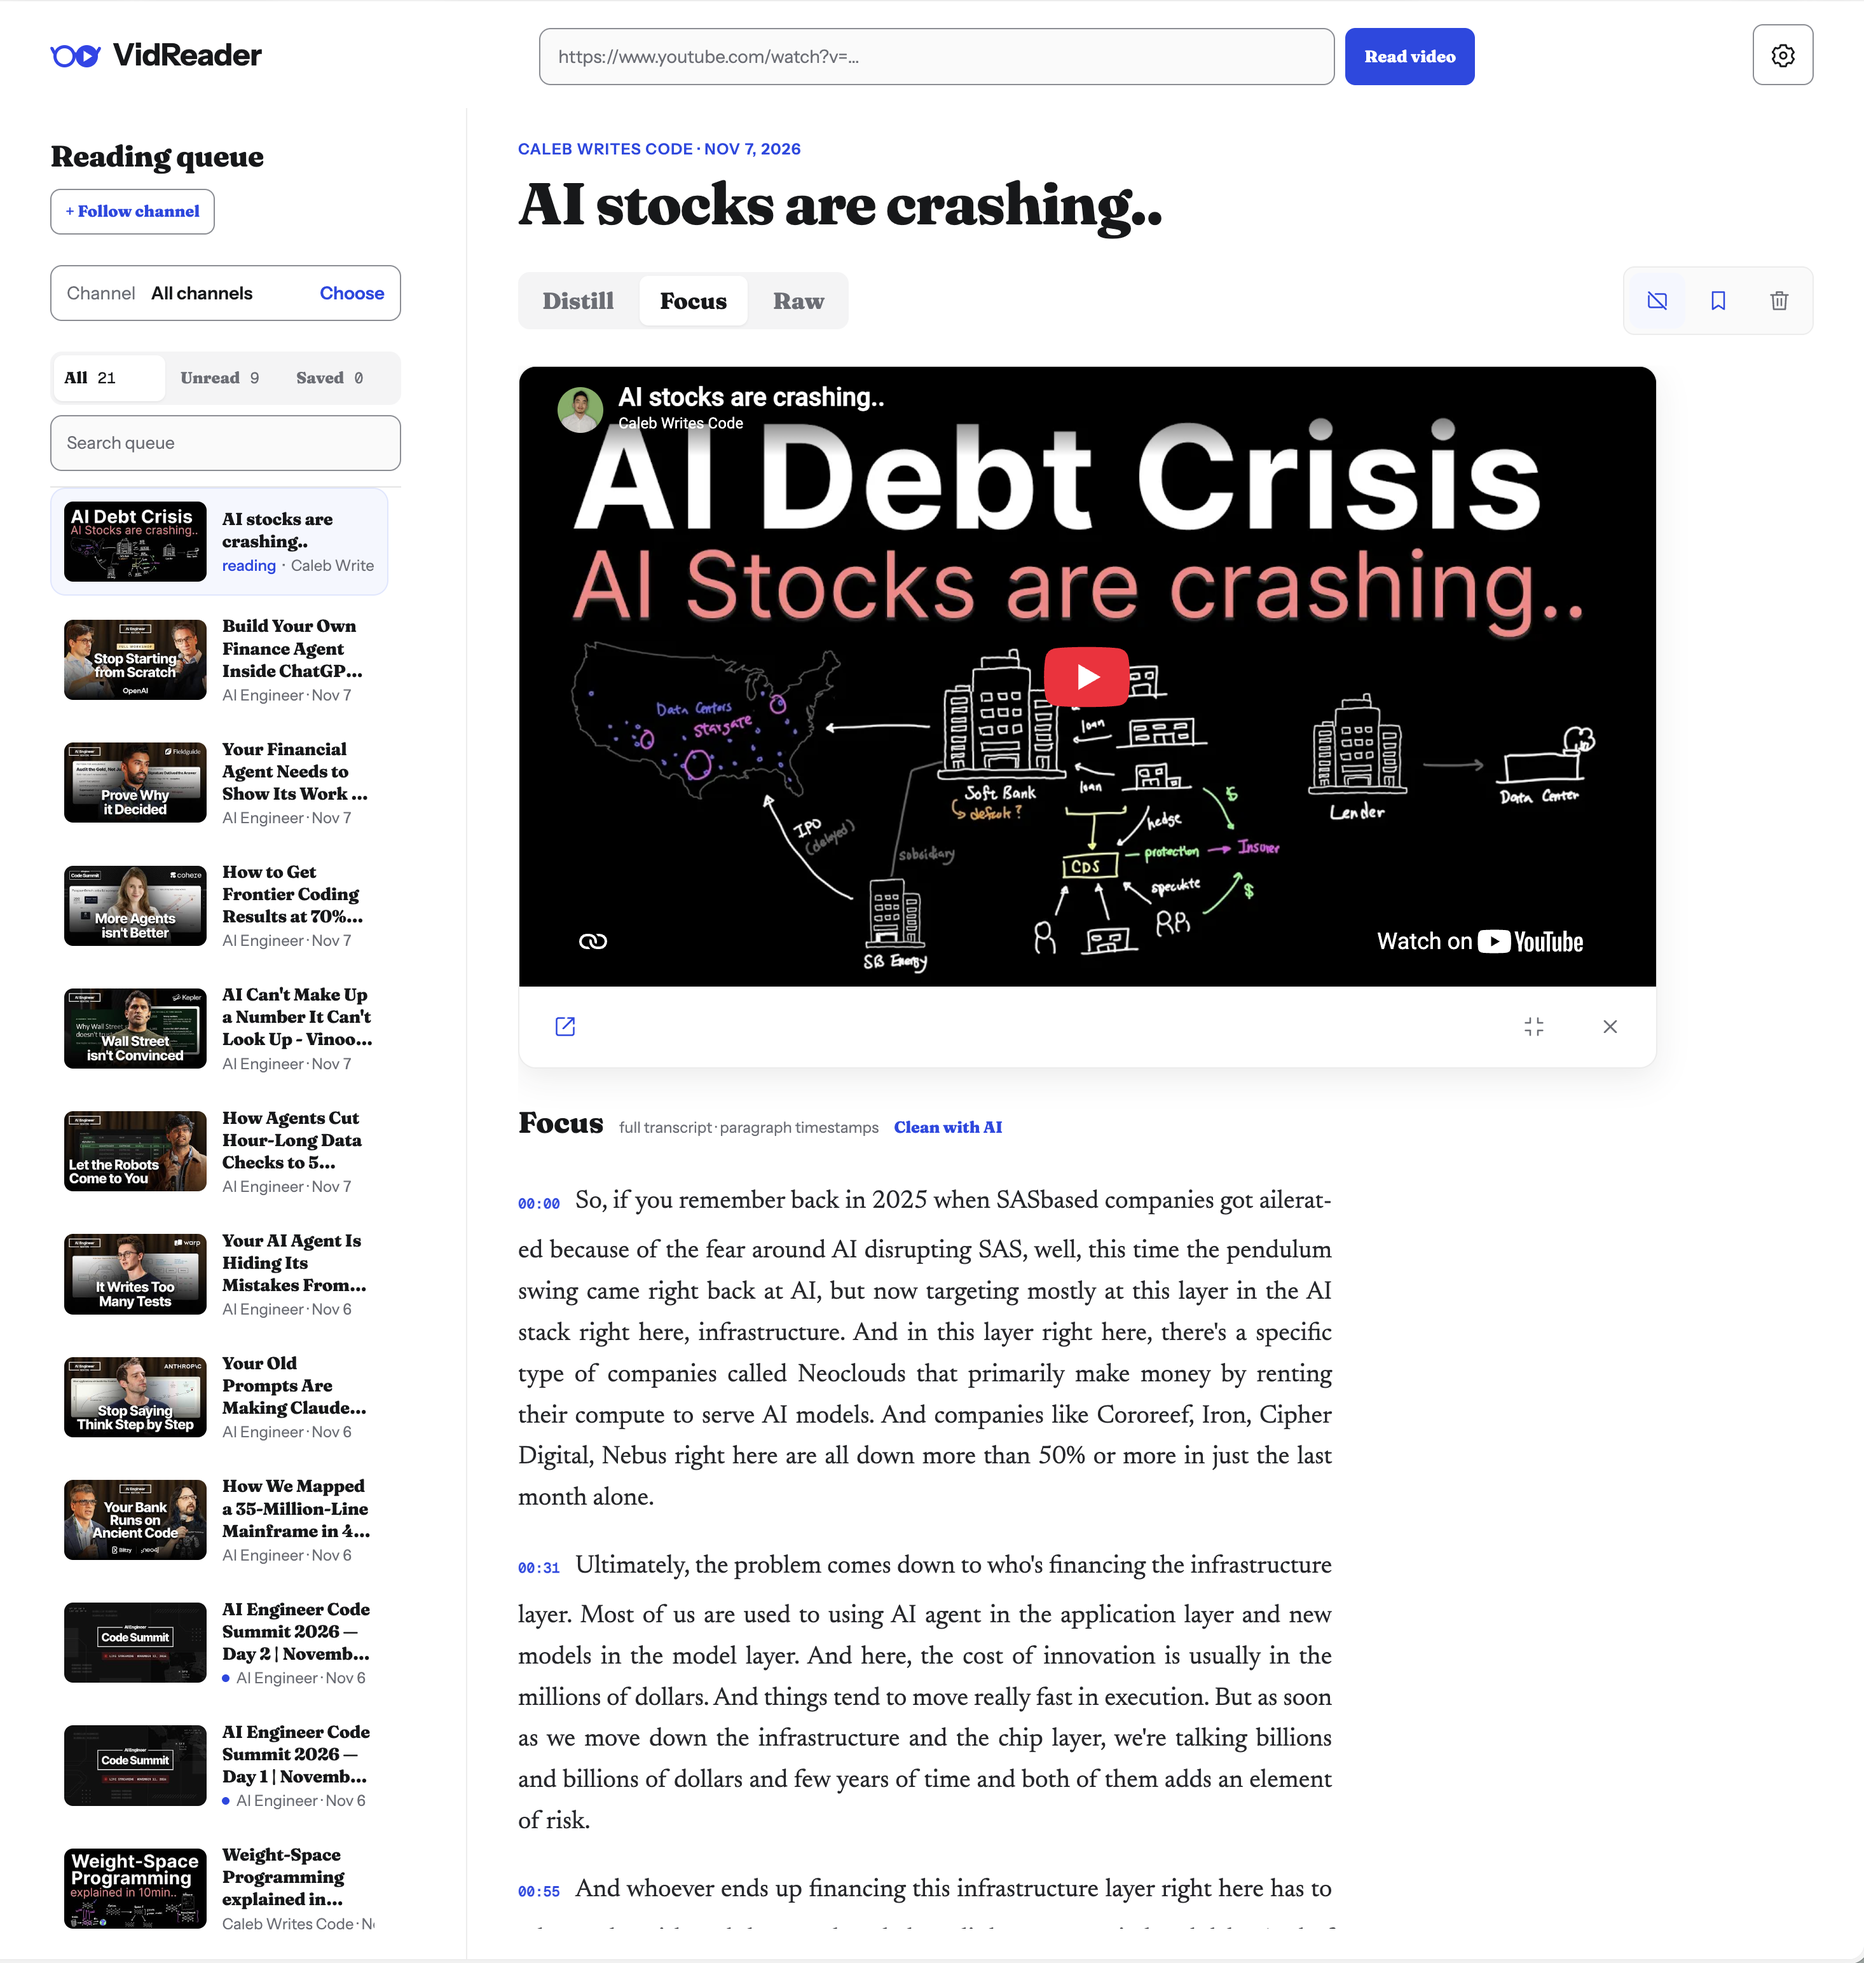
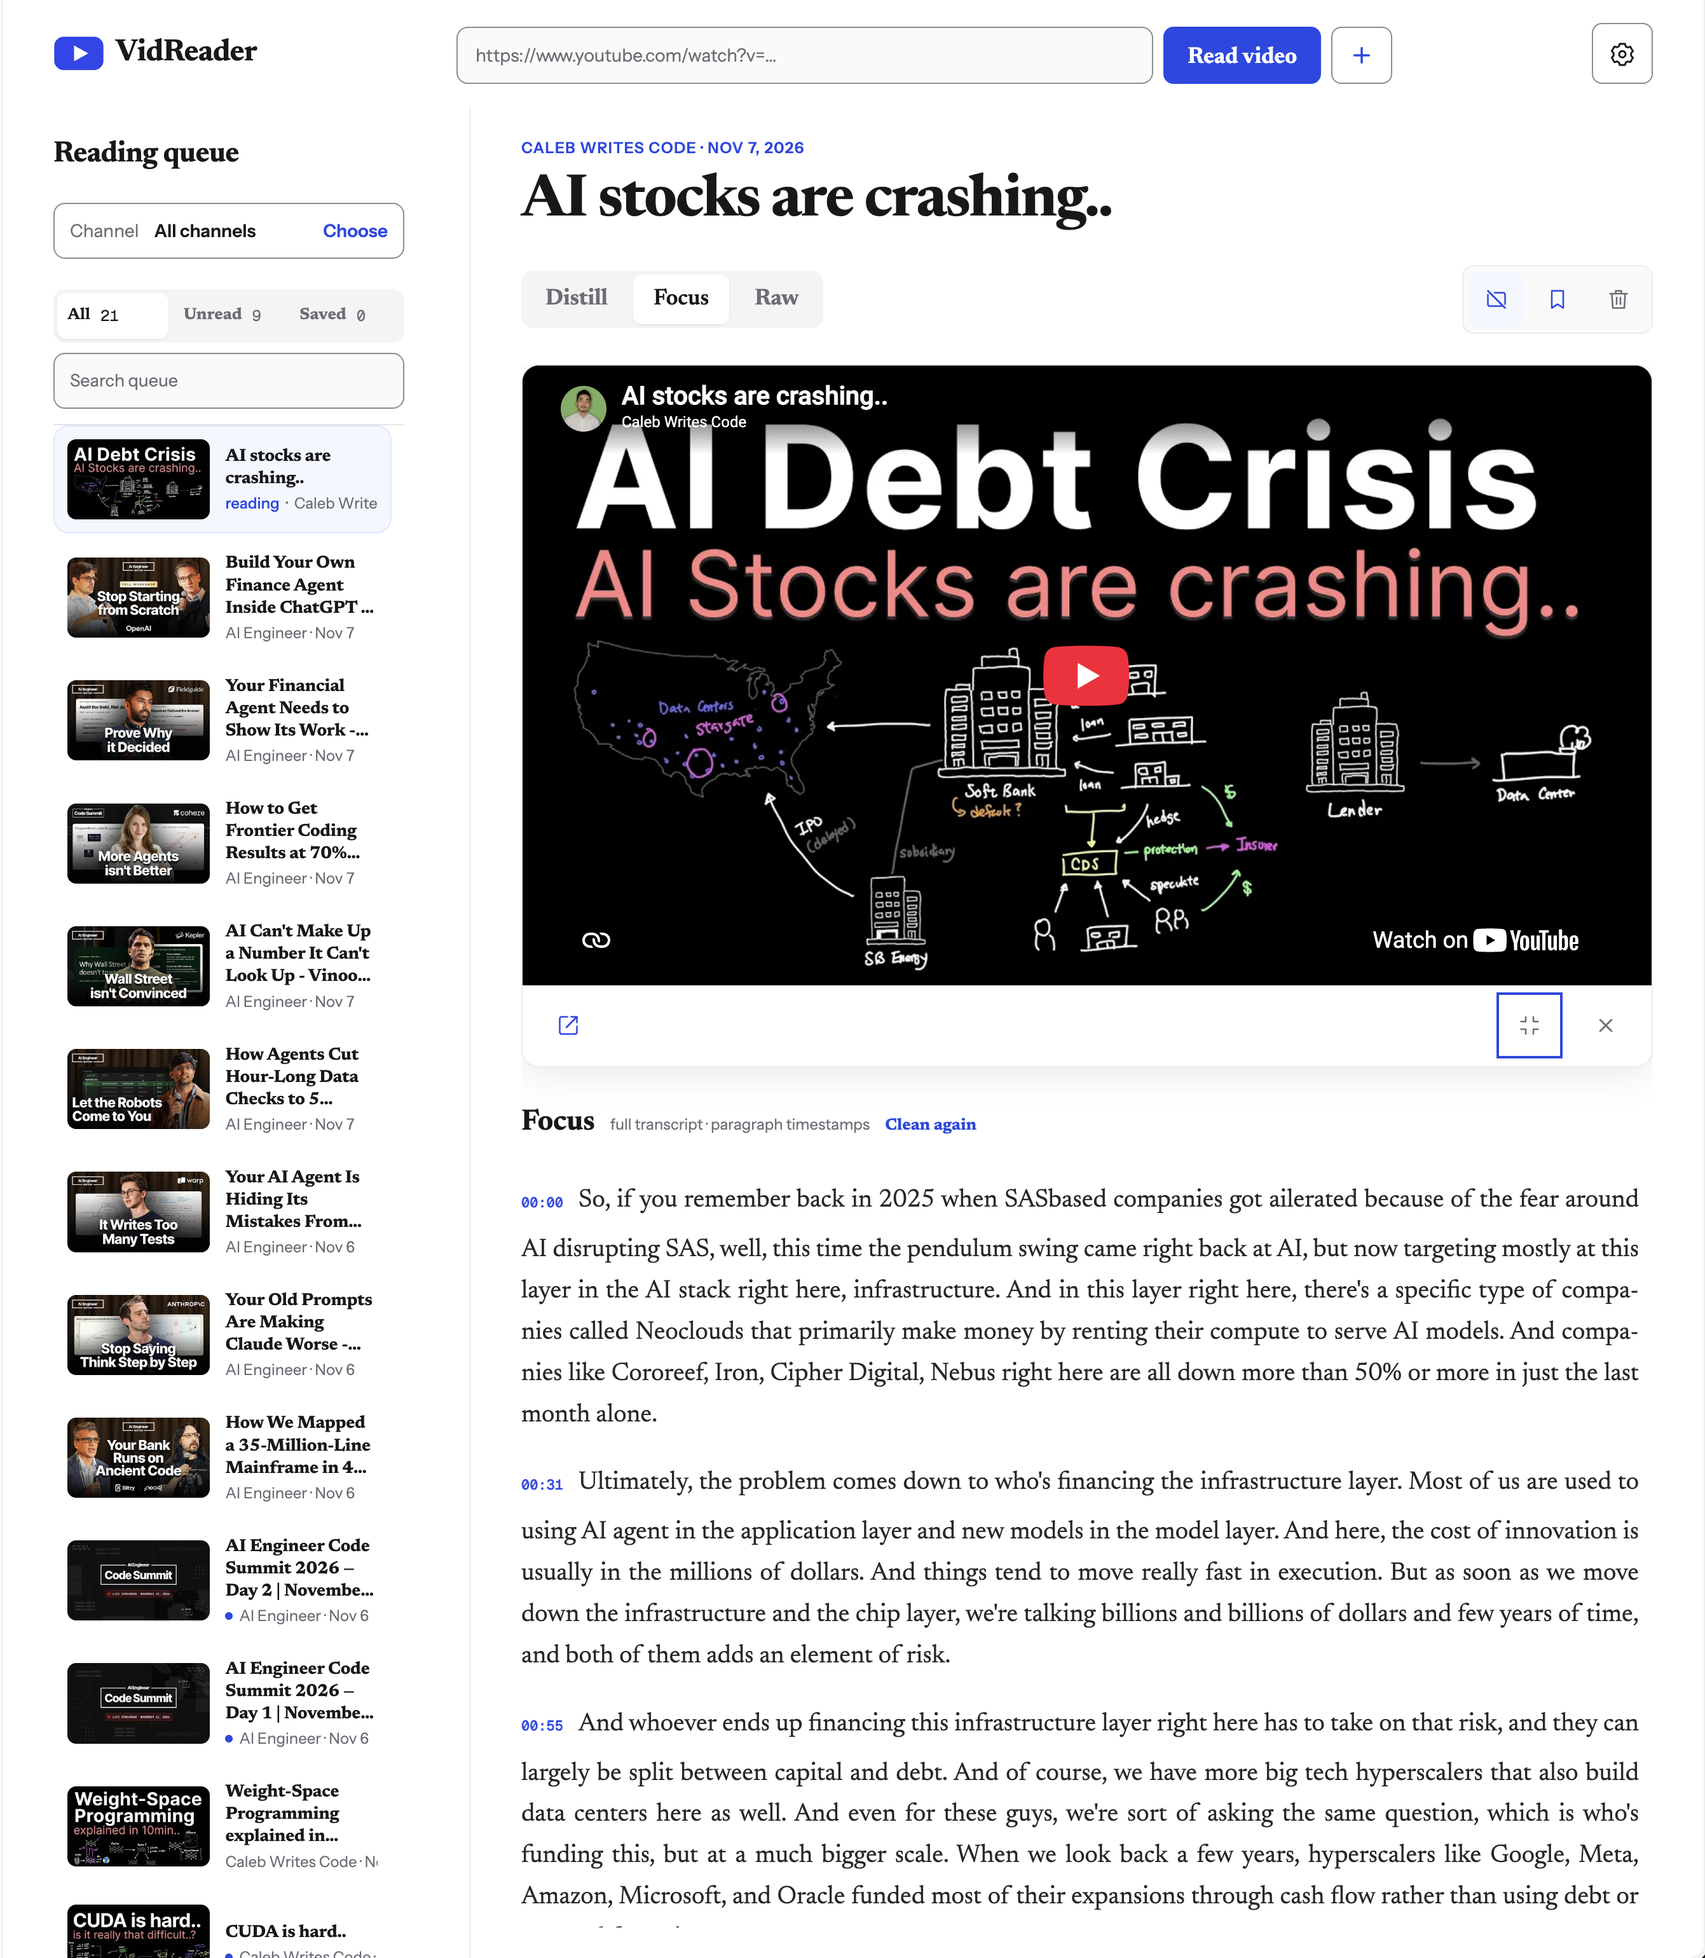
Polish reader branding, align full-width content, and move channel follow action

diff --git a/index.html b/index.html
@@ -4,22 +4,23 @@
     <meta charset="UTF-8" />
     <meta name="viewport" content="width=device-width, initial-scale=1, viewport-fit=cover" />
     <title>VidReader</title>
-    <link rel="icon" type="image/svg+xml" href="/favicon.svg?v=play-lens" />
+    <link rel="icon" type="image/svg+xml" href="/favicon.svg?v=blue-play" />
     <link rel="preconnect" href="https://fonts.googleapis.com" />
     <link rel="preconnect" href="https://fonts.gstatic.com" crossorigin />
-    <link href="https://fonts.googleapis.com/css2?family=Fraunces:opsz,wght@9..144,800&family=Geist+Mono:wght@400;500&family=Instrument+Sans:ital,wght@0,400..700;1,400..600&family=Newsreader:ital,opsz,wght@0,6..72,400..700;1,6..72,400..600&display=swap" rel="stylesheet" />
-    <link rel="stylesheet" href="./reader.css?v=reader-fraunces-20261107" />
+    <link href="https://fonts.googleapis.com/css2?family=Geist+Mono:wght@400;500&family=Instrument+Sans:ital,wght@0,400..700;1,400..600&family=Newsreader:ital,opsz,wght@0,6..72,400..700;1,6..72,400..600&display=swap" rel="stylesheet" />
+    <link rel="stylesheet" href="./reader.css?v=reader-follow-20261107" />
     <script src="./preferences-init.js"></script>
   </head>
   <body>
     <header class="masthead">
       <div class="mast-main">
-        <a class="wordmark" href="/" aria-label="VidReader home"><img class="wordmark-mark" src="/favicon.svg?v=play-lens" alt="" width="40" height="30" /><span>VidReader</span></a>
+        <a class="wordmark" href="/" aria-label="VidReader home"><img class="wordmark-mark" src="/favicon.svg?v=blue-play" alt="" width="40" height="30" /><span>VidReader</span></a>
         <form class="link-form" id="video-form">
           <label for="video-url">Video link</label>
           <div class="link-row">
             <input id="video-url" type="url" inputmode="url" autocomplete="url" aria-describedby="video-helper" aria-required="true" placeholder="https://www.youtube.com/watch?v=…" required />
             <button class="chip chip-primary" id="read-video" type="submit">Read video</button>
+            <button class="chip chip-quiet follow-channel-icon" id="add-channel" type="button" aria-label="Follow channel" title="Follow channel"><svg width="20" height="20" viewBox="0 0 24 24" fill="none" stroke="currentColor" stroke-width="2" stroke-linecap="round" aria-hidden="true"><path d="M12 5v14M5 12h14" /></svg></button>
           </div>
           <p class="helper" id="video-helper" data-default="Public YouTube videos with captions work best." aria-live="polite">Public YouTube videos with captions work best.</p>
         </form>
@@ -45,7 +46,6 @@
             <div class="queue-drawer-content">
           <header class="queue-head">
             <h2>Reading queue</h2>
-            <button class="chip chip-quiet" id="add-channel">Follow channel</button>
           </header>
           <details class="channel-picker" id="channel-picker">
             <summary class="channel-picker-summary">
@@ -81,7 +81,7 @@
     </main>
     <dialog id="channel-dialog">
       <form method="dialog">
-        <button class="close" value="cancel" aria-label="Close">×</button>
+        <button class="close" value="cancel" formnovalidate aria-label="Close">×</button>
         <h2>Add a channel</h2>
         <label>Channel URL or @handle<input id="channel-url" aria-describedby="channel-helper" aria-required="true" placeholder="youtube.com/@creator" required /></label>
         <p class="helper" id="channel-helper" data-default="VidReader reads the channel’s public feed and pulls English captions when they exist.">VidReader reads the channel’s public feed and pulls English captions when they exist.</p>
@@ -137,7 +137,7 @@
             <output id="reader-width-value" aria-live="polite">Full width</output>
             <button id="reader-width-up" type="button" aria-label="Widen column" aria-describedby="reader-width-value">+</button>
           </div>
-          <p class="helper">Used when the video is hidden.</p>
+          <p class="helper">Used when the video is hidden or enlarged.</p>
         </fieldset>
         </section>
         <section id="settings-panel-ai" class="settings-panel" role="tabpanel" aria-labelledby="settings-tab-ai" hidden>
@@ -162,6 +162,6 @@
       </form>
     </dialog>
     <div class="toast-region" id="toast-region" aria-live="polite" hidden></div>
-    <script src="./app.js?v=reader-fraunces-20261107"></script>
+    <script src="./app.js?v=reader-follow-20261107"></script>
   </body>
 </html>

diff --git a/reader.css b/reader.css
@@ -2058,7 +2058,8 @@ textarea:focus-visible {
   margin-top: var(--space-md);
 }
 
-.reader-content:not(:has(> .video-dock)) :is(.digest-copy, .focus-copy, .transcript, .focus-meta, .mode-state) {
+.reader-content:not(:has(> .video-dock)) :is(.digest-copy, .focus-copy, .transcript, .focus-meta, .mode-state),
+.reader-content.is-video-expanded :is(.digest-copy, .focus-copy, .transcript, .focus-meta, .mode-state) {
   max-width: var(--reader-width, none);
 }
 
@@ -2717,7 +2718,7 @@ body.is-reading .link-form:focus-within > .helper {
 .reader-content.is-video-expanded .video-dock {
   position: static;
   width: 100%;
-  max-width: 56rem;
+  max-width: none;
   flex-basis: 100%;
 }
 
@@ -2787,6 +2788,8 @@ body.is-reading .link-form:focus-within > .helper {
   .reader-content.is-video-expanded .reader-copy {
     grid-column: 1;
     grid-row: 2;
+    max-width: none;
+    padding-inline-end: 0;
   }
 
   @container reader (max-width: 50rem) {
@@ -2937,6 +2940,7 @@ body.is-reading .link-form:focus-within > .helper {
 .mast-main .wordmark {
   grid-column: 1;
   grid-row: 1;
+  font-family: var(--font-heading);
   font-size: 1.5rem;
   font-weight: 700;
 }
@@ -3068,9 +3072,9 @@ body.is-reading .intake {
   display: none;
 }
 
-/* Selected type direction: Fraunces ExtraBold for headings and labels. */
+/* Selected type direction: Newsreader Bold for headings and labels. */
 :root {
-  --font-heading: "Fraunces", ui-serif, Georgia, serif;
+  --font-heading: "Newsreader", ui-serif, Georgia, serif;
 }
 
 .reader-head h2,
@@ -3086,7 +3090,7 @@ dialog h3,
 .text-action,
 .segment label {
   font-family: var(--font-heading);
-  font-weight: 800;
+  font-weight: 700;
   font-optical-sizing: auto;
 }
 
@@ -3120,4 +3124,26 @@ dialog h2 {
   .reader-head h2 {
     font-size: 1.75rem;
   }
+}
+
+#read-video {
+  font-size: 1.125rem;
+  line-height: 1;
+  padding-block: .625rem .375rem;
+  padding-inline: 1.125rem;
+}
+
+.mast-main .link-row {
+  grid-template-columns: minmax(0, 1fr) auto auto;
+}
+
+.mast-main .link-row .follow-channel-icon {
+  width: var(--control-height-touch);
+  min-width: var(--control-height-touch);
+  padding: 0;
+  color: var(--color-accent);
+}
+
+body.is-reading .link-row {
+  grid-template-columns: minmax(0, 1fr) auto auto;
 }
